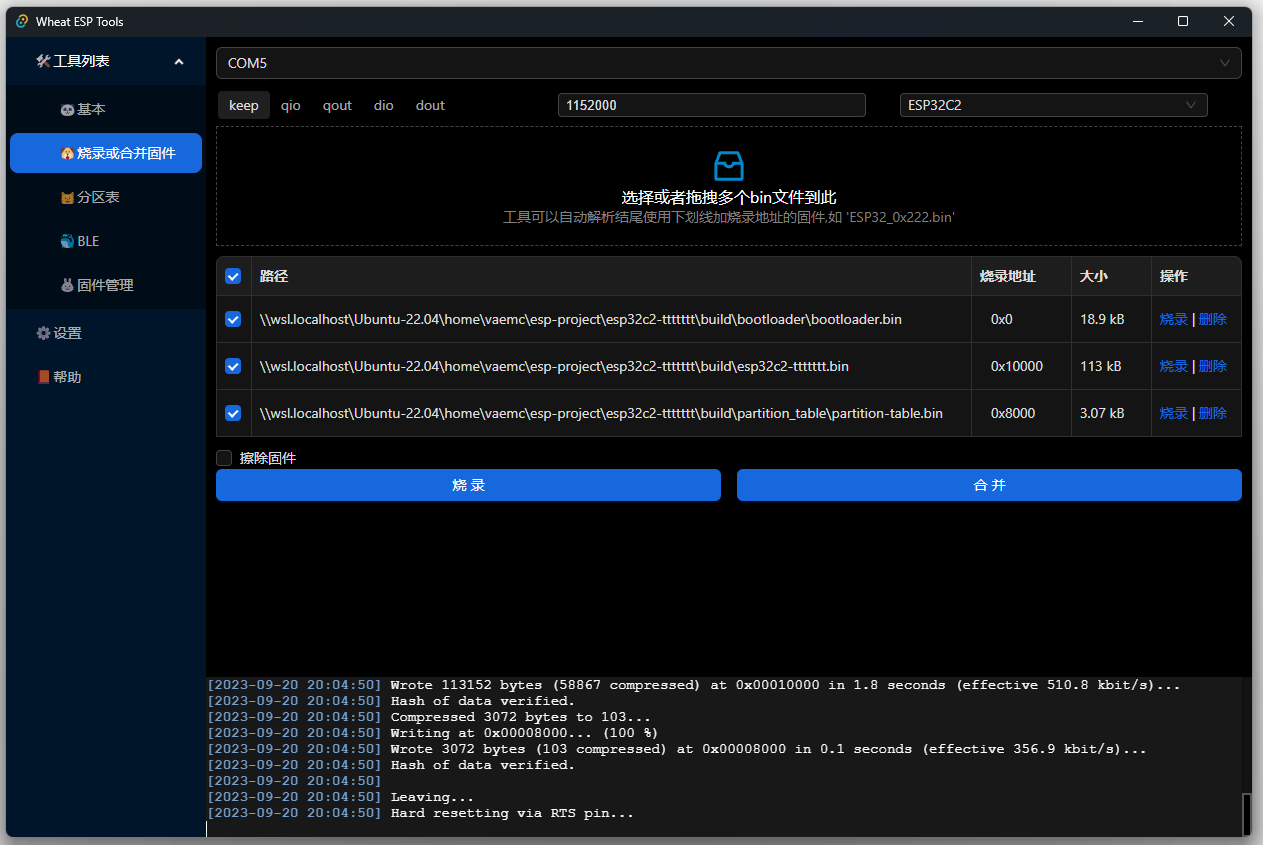
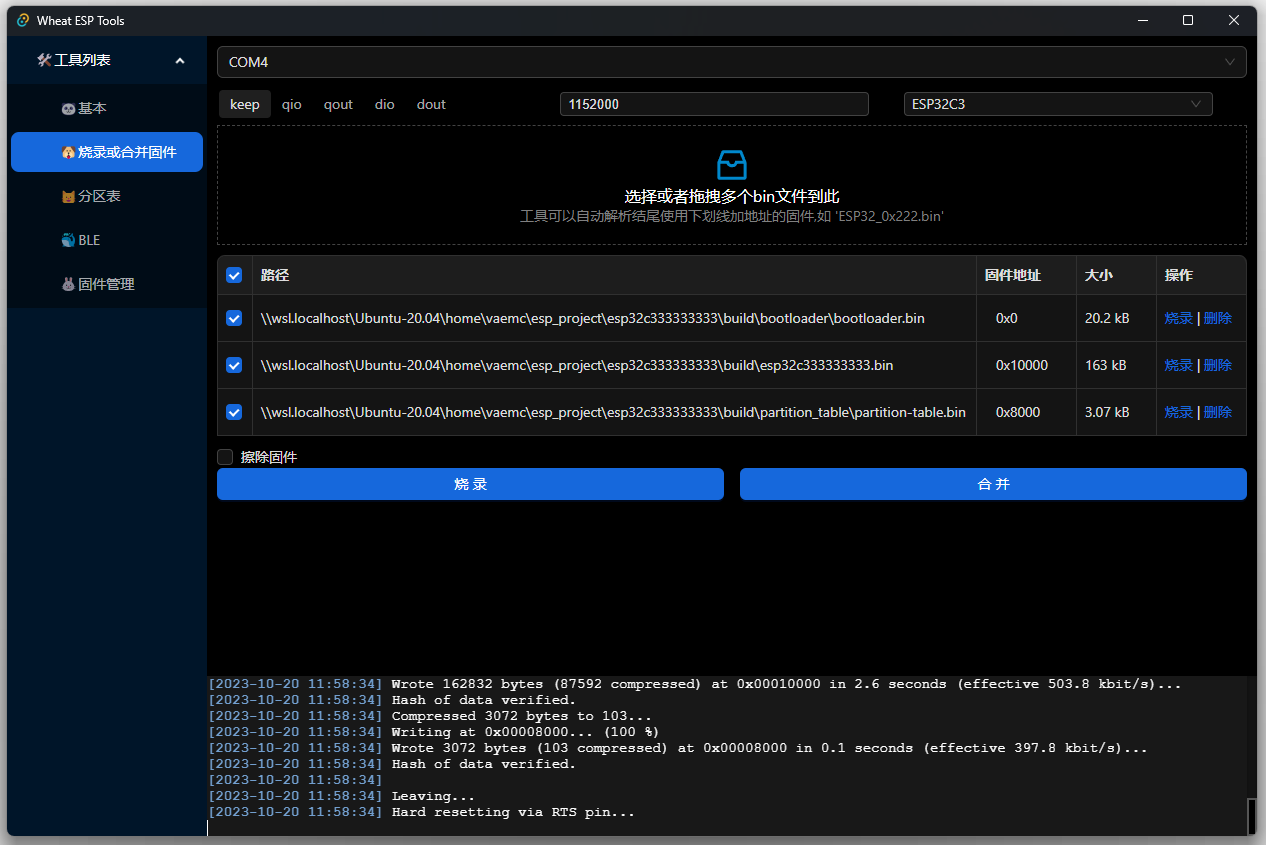
优化

diff --git a/src/views/tools/flash/index.vue b/src/views/tools/flash/index.vue
@@ -47,7 +47,7 @@
       <Upload
         v-if="destroyDrop"
         title="选择或者拖拽多个bin文件到此"
-        subtitle="工具可以自动解析结尾使用下划线加烧录地址的固件,如 'ESP32_0x222.bin'"
+        subtitle="工具可以自动解析结尾使用下划线加地址的固件,如 'ESP32_0x222.bin'"
         @open="uploadHandle"
         @drop="uploadHandle"
         :isDirectory="false"
@@ -154,7 +154,7 @@ const columns = ref([
     ellipsis: true,
   },
   {
-    title: "烧录地址",
+    title: "固件地址",
     dataIndex: "address",
     key: "address",
     width: 100,
@@ -253,7 +253,7 @@ const handle = (fun: Function) => {
   }
 
   if (firmwareList.value.filter((x) => x.address == "").length > 0) {
-    message.warning("烧录地址未填写");
+    message.warning("固件地址未填写");
     return;
   }
 

diff --git a/src-tauri/src/main.rs b/src-tauri/src/main.rs
@@ -154,17 +154,16 @@ fn greet(name: &str) -> String {
 #[tauri::command]
 fn get_serial_port_list() -> Vec<String> {
     let port_info_list = available_ports().unwrap();
-    let port_list: Vec<String> = port_info_list
+    port_info_list
         .iter()
         .map(|x| x.port_name.to_string())
-        .collect();
-    return port_list;
+        .collect()
 }
 
 #[tauri::command]
 fn get_current_dir() -> String {
     let path = env::current_dir().unwrap();
-    return path.display().to_string();
+   path.display().to_string()
 }
 
 #[tauri::command]
